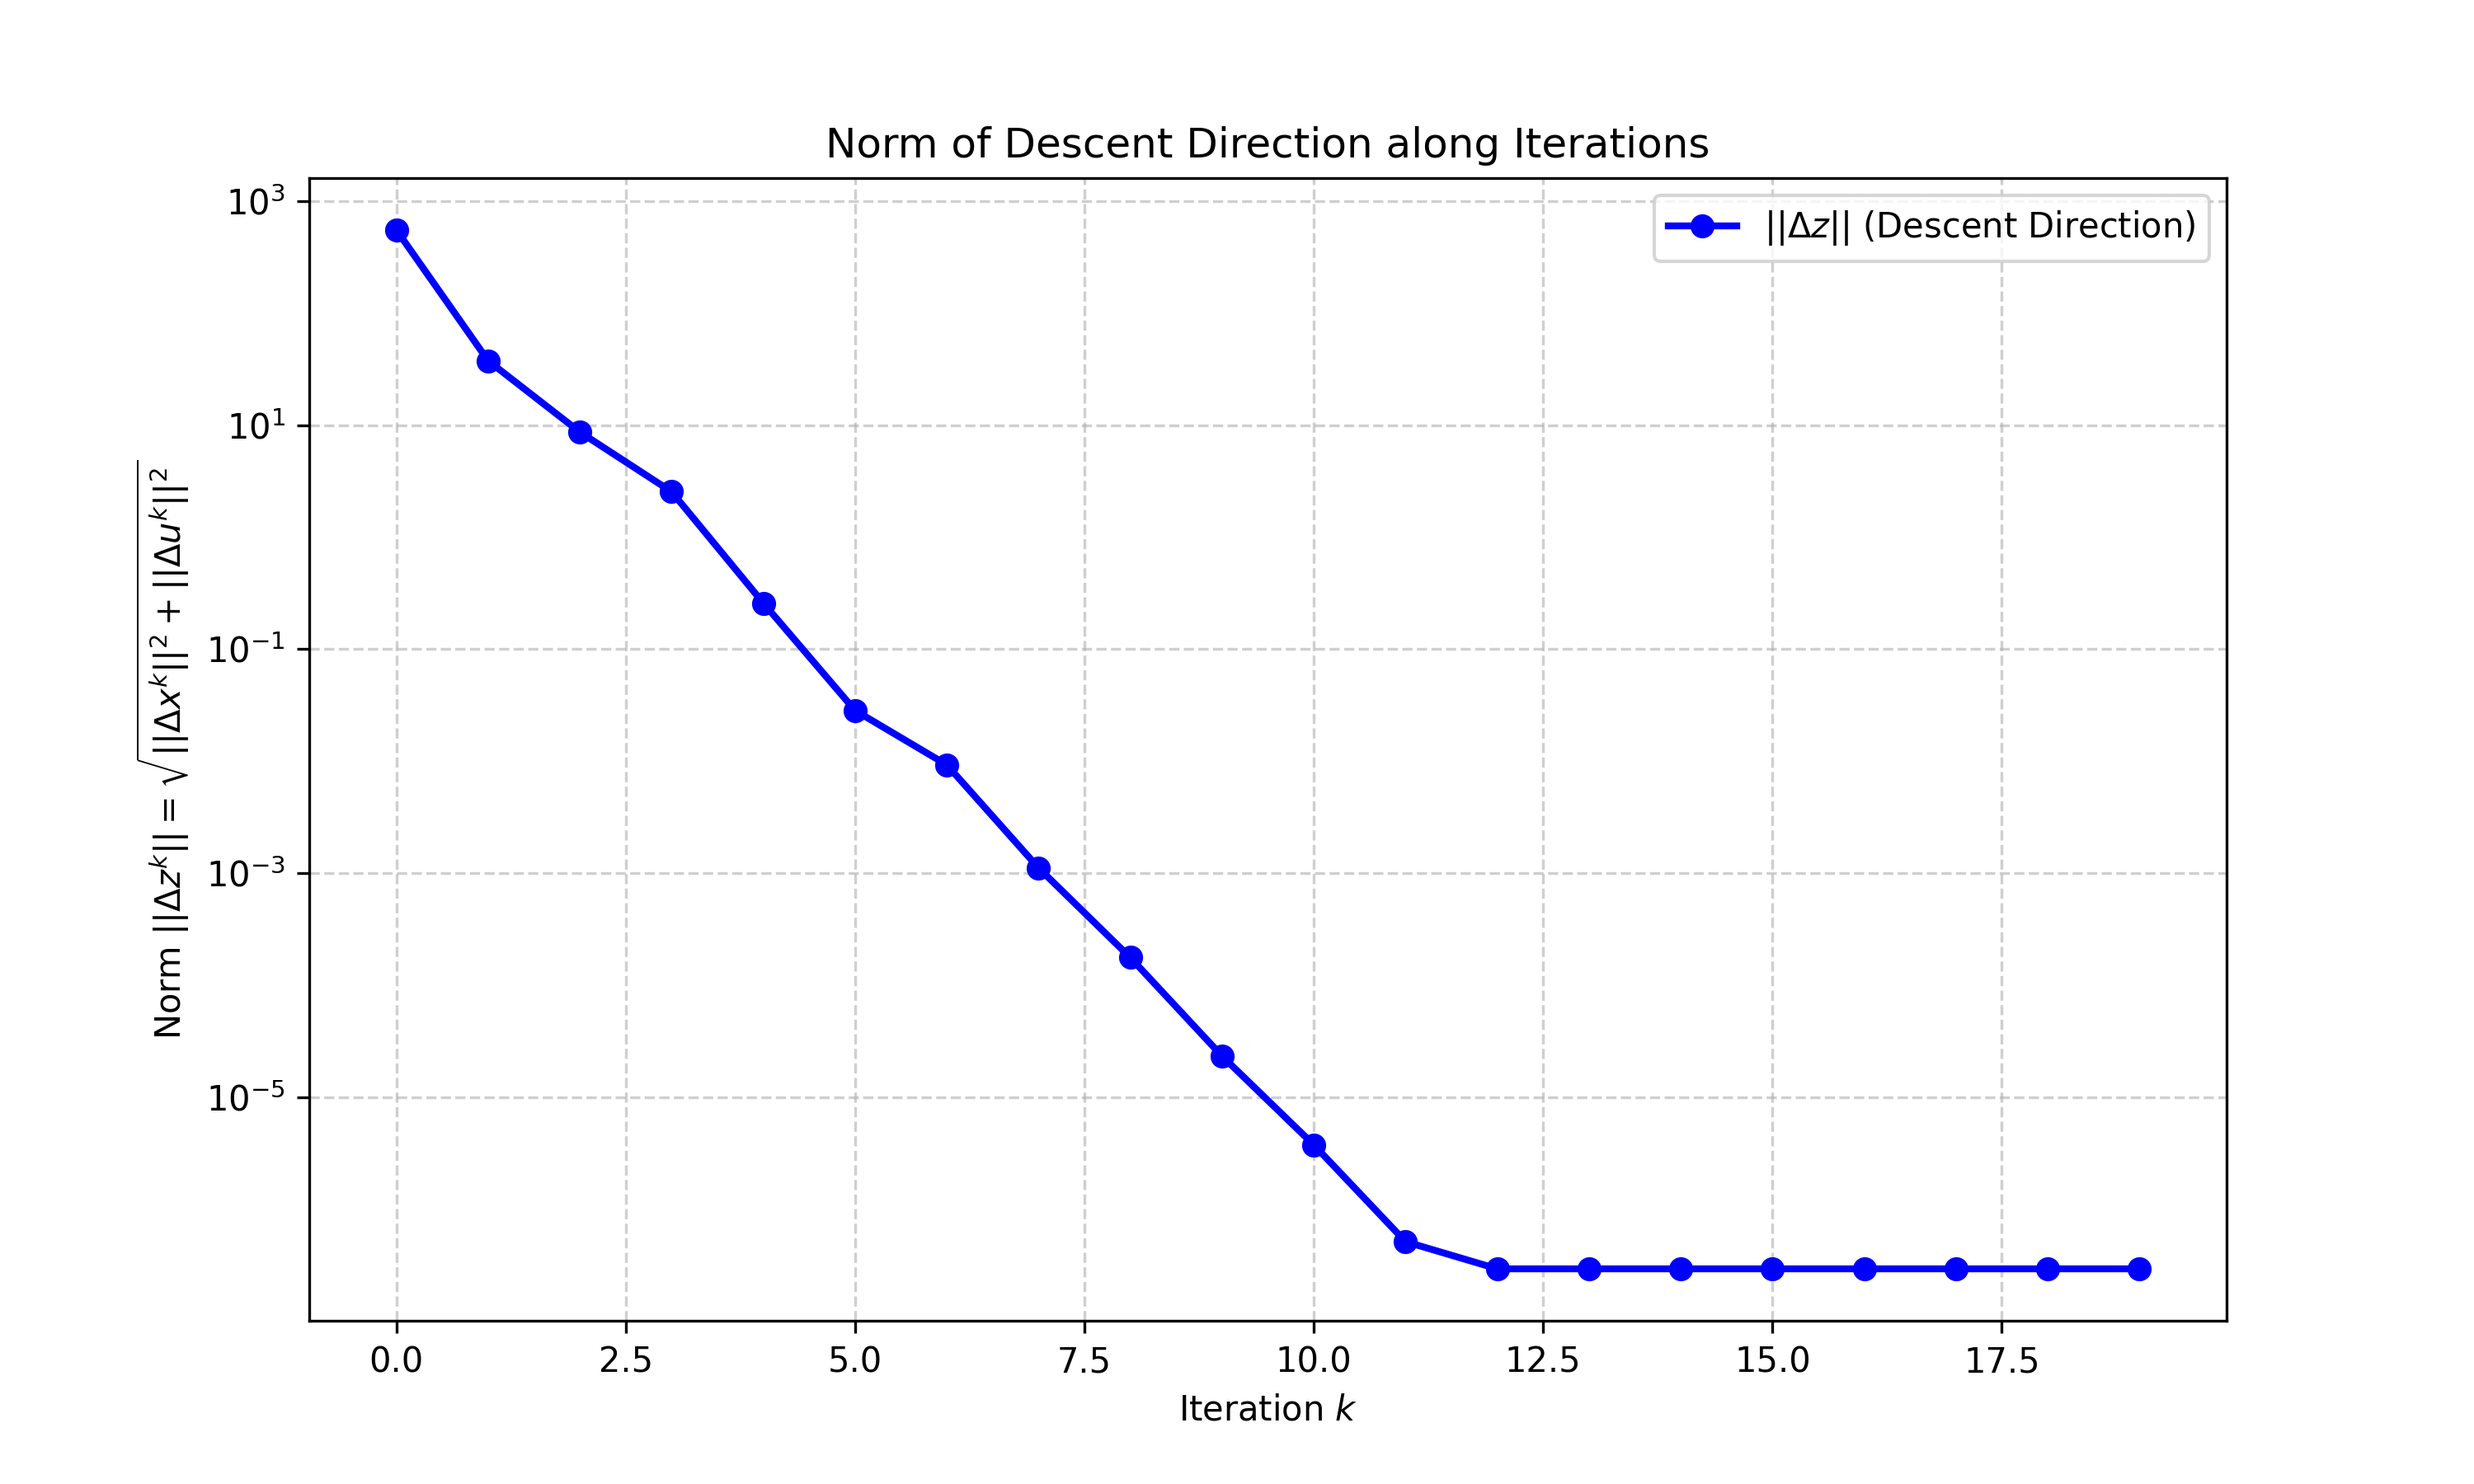
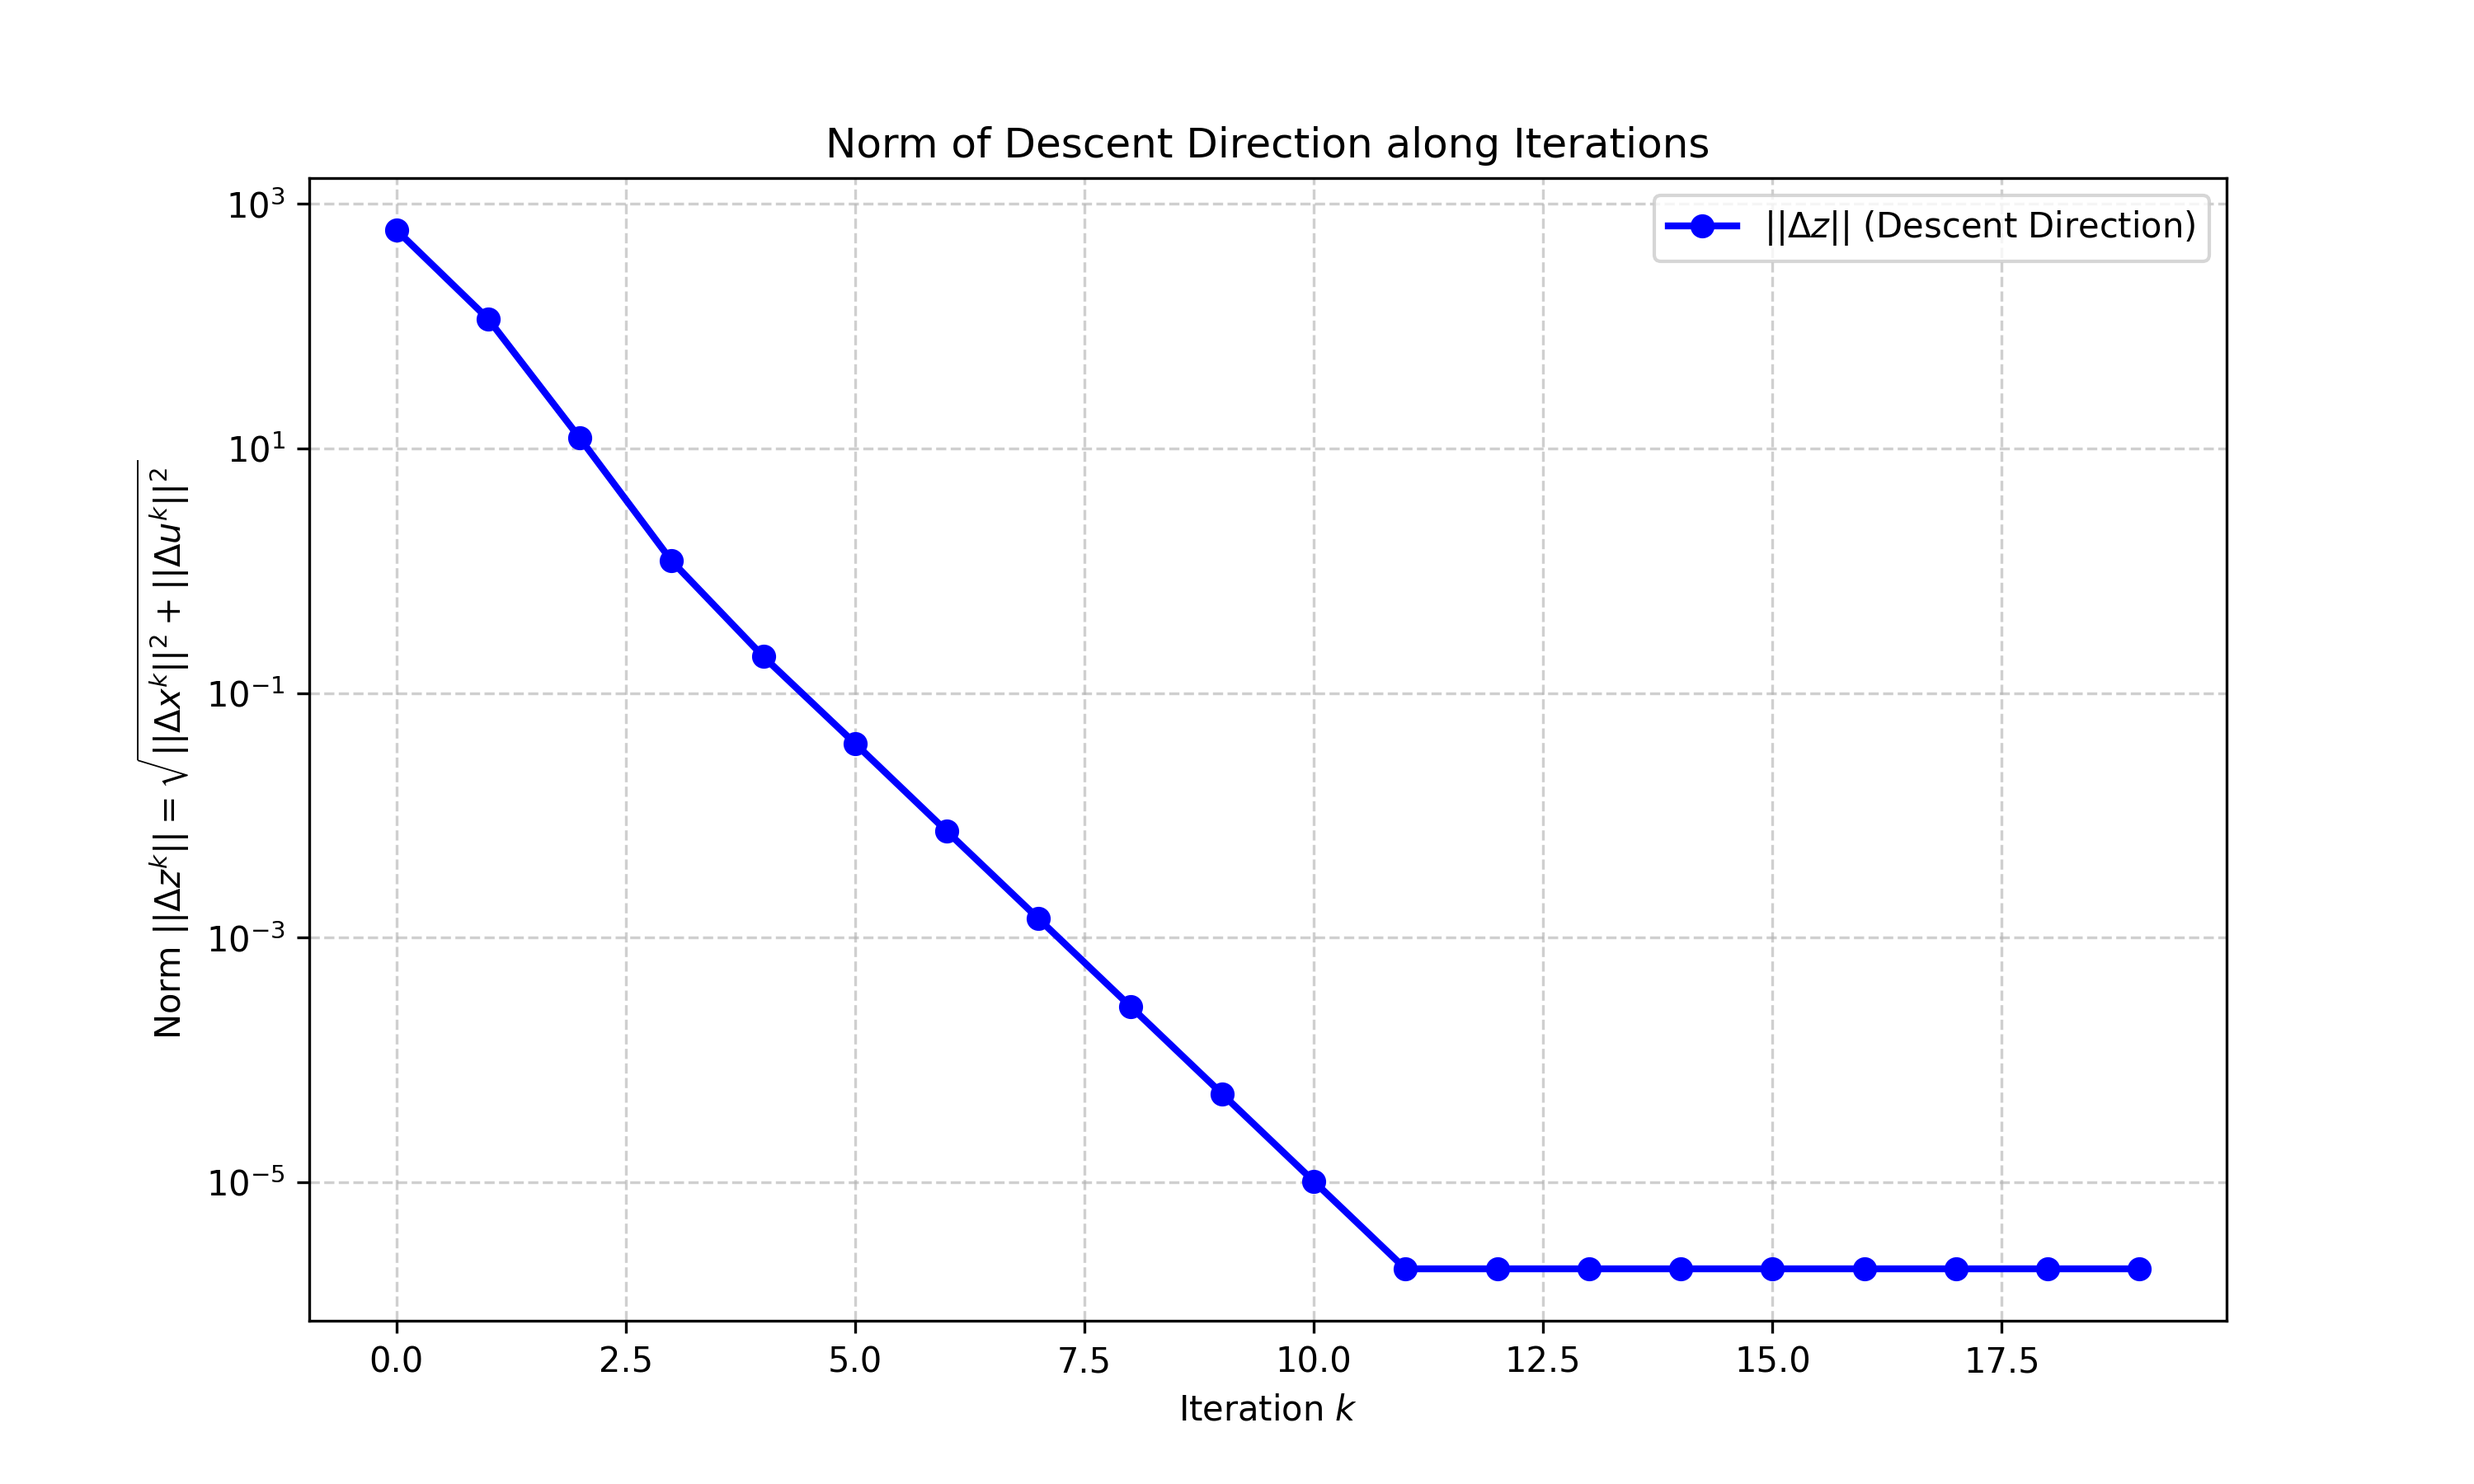
Aggiunto nei main 1 & 2 controllo punti di equilibrio (commentati attualmente) + cambiati valori delle matrici (Q3, Q4 ed RR) + cambiato time istant totale a 20 secondi

diff --git a/main_task2.py b/main_task2.py
@@ -63,6 +63,27 @@ tau1_des = 0
 
 th1_final = np.deg2rad(90)
 
+
+#--------------- TESTING EQUILIBRIUM POINTS -------------------
+# Checking if the equilibrium points are actually equilibrium points
+# We use the dynamics function (only with the eq. points 1 and 2)...
+# ... to test if in 10 sequential time instants the value of the ... 
+# ... state doesn't change (it remains at the equilibrium)
+
+# xx_eq1, xx_eq2, uu_eq1,uu_eq2 = eq.eq_gen(th1_init, tau1_des, th1_final)
+# for jj in range(10):
+   
+#     xx_try = np.zeros(ns)
+#     uu_try = np.zeros(ni)
+#     xx_atamp = np.zeros((ns,jj))
+#     xx_try = xx_eq2 #change to xx_eq1 to test the eq. point nr.1
+#     uu_try = uu_eq2 #change to uu_eq1 to test the eq. point nr.1
+
+#     xx_atamp = dyn.dynamics_euler(xx_try, uu_try)[0]
+#     print(xx_atamp)
+
+#-------------------------------------------------------------------
+
 # Computing the reference trajectory
 xx_ref, uu_ref = ref_traj.gen_smooth(tf,dt,ns,ni,th1_init,tau1_des,th1_final)
 

diff --git a/main_task1.py b/main_task1.py
@@ -63,6 +63,27 @@ tau1_des = 0
 
 th1_final = np.deg2rad(90)
 
+
+#--------------- TESTING EQUILIBRIUM POINTS -------------------
+# Checking if the equilibrium points are actually equilibrium points
+# We use the dynamics function (only with the eq. points 1 and 2)...
+# ... to test if in 10 sequential time instants the value of the ... 
+# ... state doesn't change (it remains at the equilibrium)
+
+# xx_eq1, xx_eq2, uu_eq1,uu_eq2 = eq.eq_gen(th1_init, tau1_des, th1_final)
+# for jj in range(10):
+   
+#     xx_try = np.zeros(ns)
+#     uu_try = np.zeros(ni)
+#     xx_atamp = np.zeros((ns,jj))
+#     xx_try = xx_eq2 #change to xx_eq1 to test the eq. point nr.1
+#     uu_try = uu_eq2 #change to uu_eq1 to test the eq. point nr.1
+
+#     xx_atamp = dyn.dynamics_euler(xx_try, uu_try)[0]
+#     print(xx_atamp)
+
+#-------------------------------------------------------------------
+
 # Computing the reference trajectory
 xx_ref, uu_ref = ref_traj.gen(tf, dt, ns, ni, th1_init, tau1_des, th1_final)
 

diff --git a/src/reference_curve.py b/src/reference_curve.py
@@ -16,14 +16,17 @@ import equilibrium as eq
 dt = dyn.dt
 
 # Defining final time in seconds
-tf = 10
+#tf = 10
+tf = 20
 
 # Time of transition start
-t_init = 3.5
+#t_init = 3.5
+t_init = 8.5
 T_init = int(t_init/dt)
 
 # Time of transition finish
-t_end = 6.5
+#t_end = 6.5
+t_end = 11.5
 T_end = int(t_end/dt)
 
 def gen(tf, dt, ns, ni, th1, tau_init, th1_final):

diff --git a/src/cost.py b/src/cost.py
@@ -16,13 +16,13 @@ ni = dyn.ni
 # Defining cost matrices
 Q1 = 100    # w/ these values, we're giving more weught to the angles tracking
 Q2 = 100
-Q3 = 0.1
-Q4 = 0.1
+Q3 = 1
+Q4 = 1
 
 QQ = np.diag([Q1,Q2,Q3,Q4])
 
 # ni*ni
-RR = np.array([[0.1]])
+RR = np.array([[1]])
 
 def stage_cost(xx_t, uu_t, xx_ref_t, uu_ref_t):
     '''
